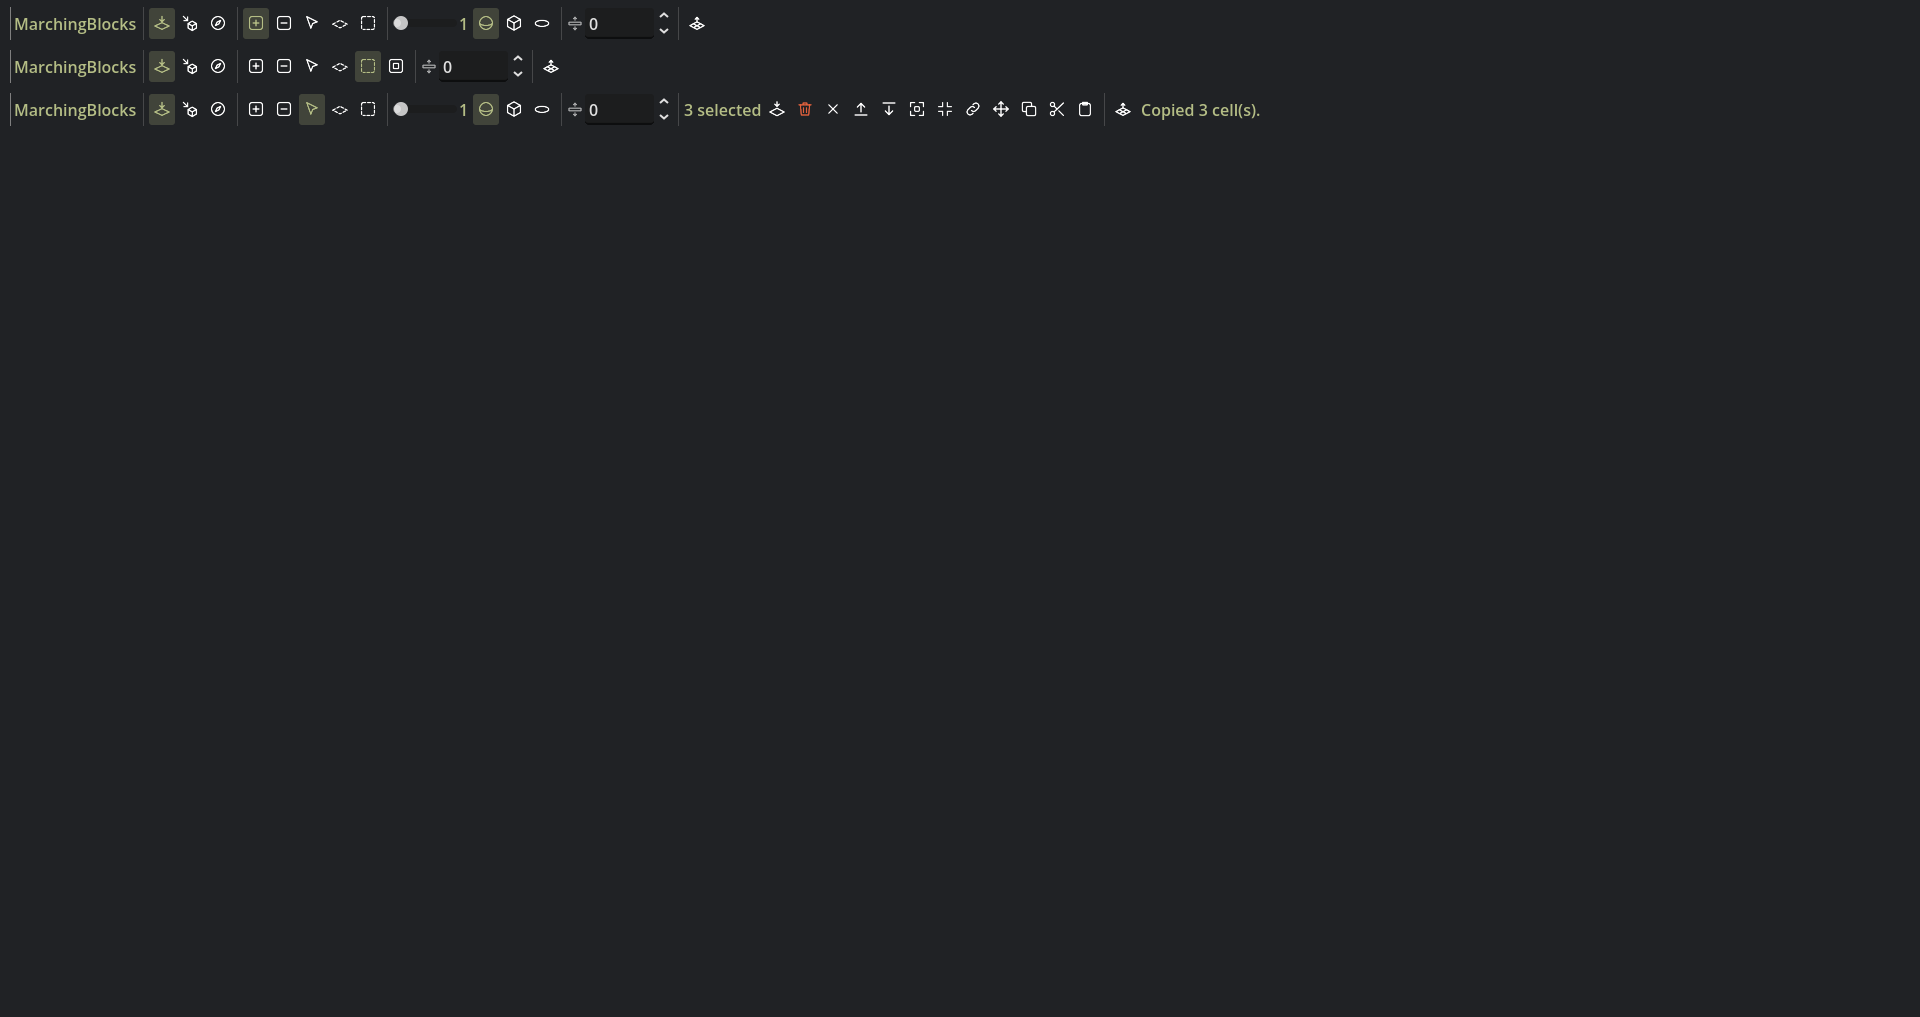
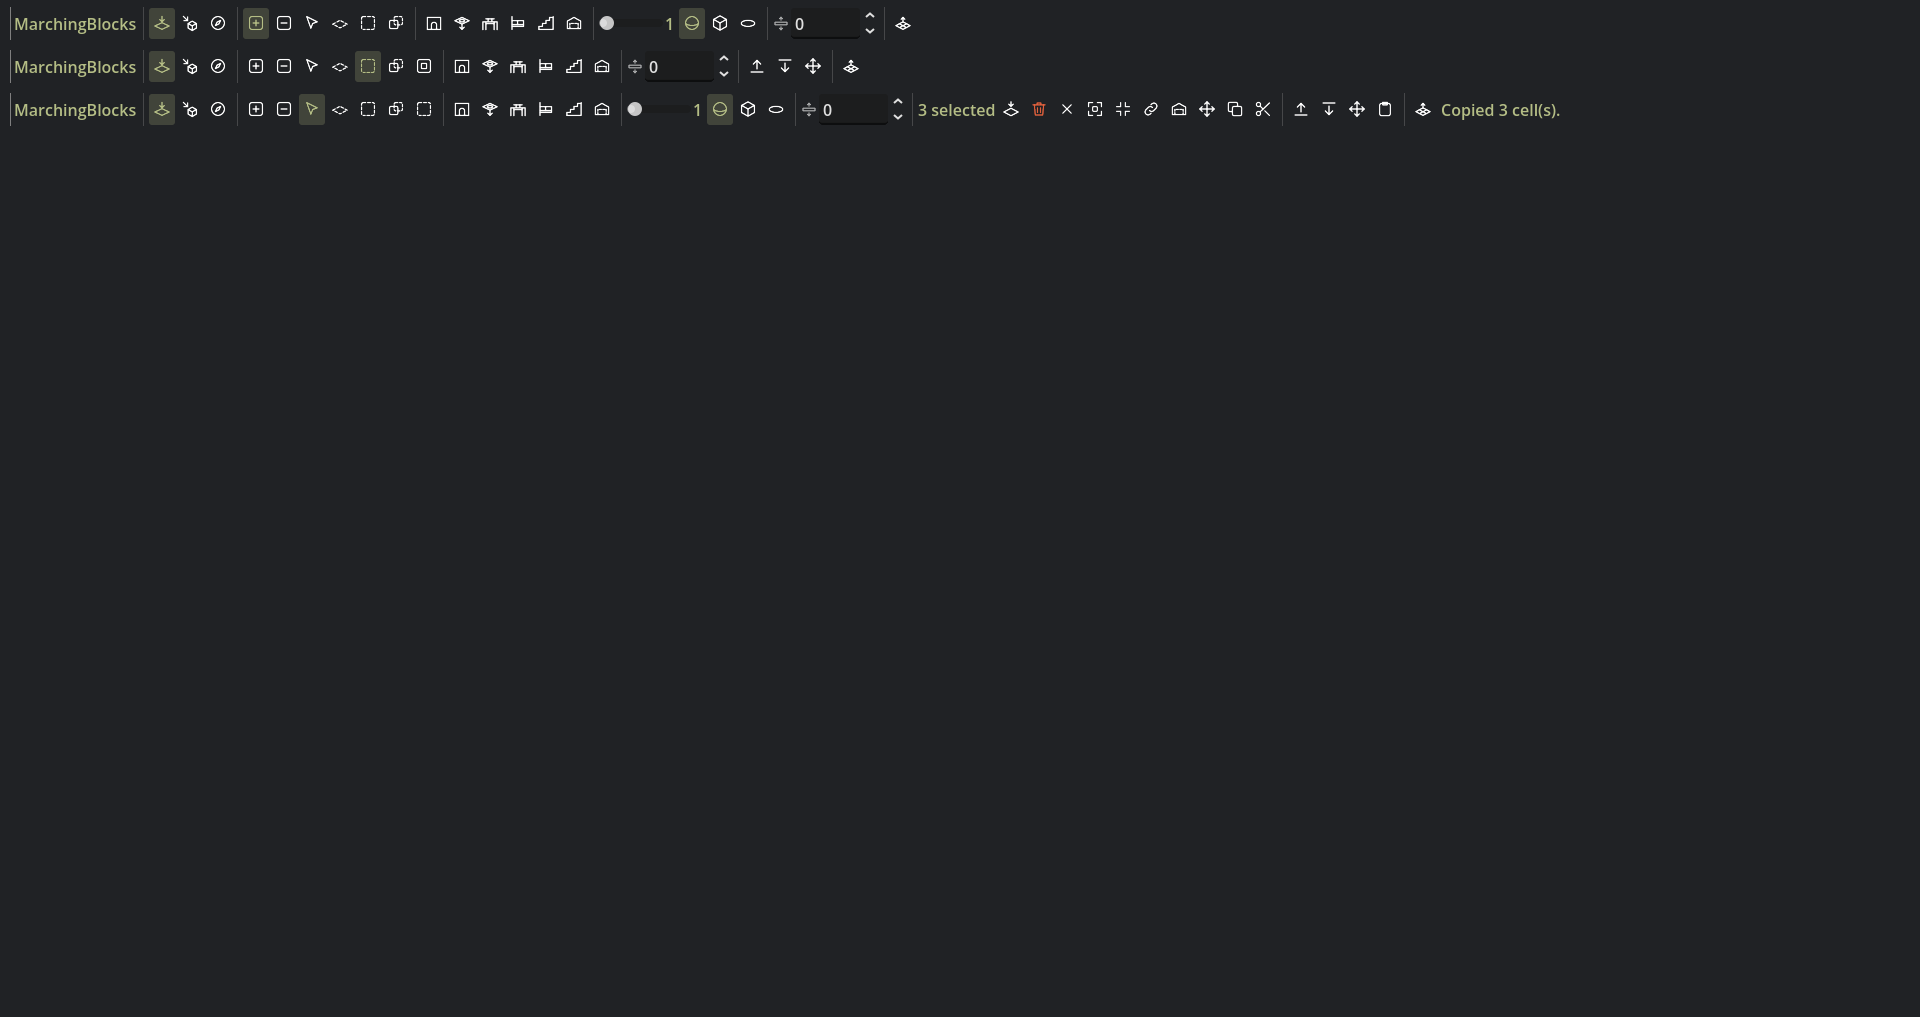
Greffon Godot à parité : la charte, le README, la barre refaite, et la mutation muette de l'eau gardée
- CLAUDE.md : sous-section « Le greffon Godot à parité » (282 cas sur 282, 24 mutations rouges, vu à l'image,
  ce qui reste et pourquoi) ; la liste des greffons cochée pour Godot ;
- ⚠ OUVERT, à trancher dans le cœur : phase_de arrondit en 32 bits (Vector3) alors que rules_text dit « double » —
  un greffon C# ou C++ écrit depuis le texte échoue les cas phase ;
- la mutation « l'eau lue au point même » ne rougissait aucun cas commun : gardée ici contre la référence ;
- README du greffon (anglais) : Extrude, Shrink, Room from selection, la molette, ce qu'un monde importé apporte ;
- les 26 suites headless vertes.

diff --git a/CLAUDE.md b/CLAUDE.md
@@ -52,31 +52,38 @@ Un PROPOSÉ ne devient DÉCIDÉ qu'une fois validé — à l'image de préféren
     Et **les cascades en volume** (§5, « les cascades du 3 octobre ») : la nappe courbe refermée dans la roche, son
     remous, la source — le contrat change (genre 0,75 = écume ; COLOR_0 a = l'écume sur une cascade), et le motif
     `motif_cascade` est à réécrire dans chaque preset.
+    - ✓ **Godot — PARTIEL (7 octobre 2026)** : lecture de `water`, la nappe cuite et les SIX presets (copie générée), le matériau de l'artiste, la règle des cases (25/25 cas) ; la nappe se dit périmée quand on peint. ⚠ La NAPPE n'est pas recalculée (le mailleur n'a pas de cas). Voir « Le greffon Godot à parité ».
   - **La molette du contexte** (§5, « la molette ») : la même règle dans les trois éditeurs (pendant un geste, Alt, Maj,
     Ctrl), F qui cadre toute la matière, et des panneaux où la molette ne règle rien.
+    - ✓ **Godot — FAIT sauf F (7 octobre 2026)** : la règle de l'appli dans `mb_editor.gd` (`wheel`), éprouvée par de vrais événements. ⚠ F : la caméra de la vue 3D appartient à l'éditeur de Godot (pas d'API pour la poser).
   - ~~**la salle**~~ — **FAITE (2 octobre 2026)**, voir §4, « la salle dans les greffons ».
   - ~~**la règle multicouche**~~ — **FAITE (2 octobre 2026)**, voir §4, « la règle multicouche dans les greffons ».
   - **Les transitions entre couches** (§5, « L'atelier Transitions ») : lire la clé `transitions` d'un monde exporté (à
     écrire d'abord dans `world.json` : paires, réglages par direction, représentants, choix peints), réécrire la règle
     (`Transitions.melange`, ses cas d'épreuve) et le shader (texture 3D d'un octet par case, table des réglages) dans
     chaque moteur, et le poser par-dessus les matériaux des tuiles. Un shader ne voyage pas (§4).
+    - ✓ **Godot — FAIT (7 octobre 2026)** : lecture, règle (93/93 cas), le shader de l'appli en `next_pass` sur les matériaux des tuiles, qui suit les cases peintes. Vu à l'image.
   - **Les demandes du 3 octobre 2026** (§5, « les demandes du 3 octobre ») : le pinceau Select qui prend aussi les
     cases VIDES (une case à cocher), « Extend selection ↑ ↓ » (le mode « étendre » d'`Etages.extruder`, en bouton), et,
     si les greffons posent un jour de l'eau, la largeur d'une rivière à la pose (`FL.sources_en_largeur`, ses cas) ; et
     « Room from selection » (`FS.salle_depuis`, réécrite en C# et en C++, avec ses cas).
+    - ✓ **Godot — FAIT (7 octobre 2026)** : « Select empty cells too », Extend selection (Maj + clic / Maj + molette), Room from selection. La largeur d'une rivière : la règle et ses cas seulement (le greffon ne pose pas d'eau).
   - **Extrude, et Shrink** (§5, « Extrude, une seule fois ») : les trois greffons ont encore Extrude ↑ ↓ dans les
     opérations de sélection et l'ancien Shrink (`retrecir`, gardé dans `outils.gd` pour leurs cas d'épreuve). Il
     faut : `Etages.extruder` (poser / étendre / décaler, haut / bas / face) réécrite en C# et en C++, `retrecir_bord`
     à la place de `retrecir`, leurs cas dans `tools_conformance.json`, et Maj / Alt dans les trois éditeurs.
+    - ✓ **Godot — FAIT (7 octobre 2026)** : Extrude ↑ ↓ face (Maj étend, Alt décale), Shrink du bord ; les anciens Extrude ↑ ↓ et Shrink quittent sa barre (leurs fonctions restent pour `tools_conformance.json`).
   - ~~**Les variantes voulues**~~ — **FAITES (5 octobre 2026)**, voir §3, « les variantes dans les greffons ».
   - **Les textures animées** (§5, « l'atelier Animation ») : lire `mb_animation` dans les `extras` du matériau glTF
     (défilement u/v, images — ips, aller-retour —, pulsation de l'émission, synchro ou décalée par la position, la phase
     de `phase_de`), et le shader de chaque moteur (la règle : `image_au_temps`, `pulsation_au_temps`) ; EMPORTER LES
     IMAGES dans le `.mbset` (aujourd'hui `tiles.glb` ne porte que l'image 0 et les noms de fichiers des autres) ; leurs
     cas d'épreuve.
+    - ✓ **Godot — FAIT (7 octobre 2026)** : `mb_animation` lu dans le JSON du `.glb` (repli : la méta `extras`), le shader de l'appli (copie générée, phase en espace du format), 43/43 cas. Vu à l'image.
   - **Le feuillage** (§5, « l'atelier Foliage ») : porter les modèles et les plants dans le `.mbworld` (le `.glb` copié
     dedans, comme les jeux de tuiles), la règle `feuillage.gd` (les trois modes, le pinceau, ses cas d'épreuve), le
     vent (le shader réécrit dans chaque moteur, sur les mêmes données : sol, hauteur, phase, amplitude par plant).
+    - ✓ **Godot — PARTIEL (7 octobre 2026)** : lecture, pose en MultiMesh, le vent (shader de l'appli), la règle de placement et du pinceau (59/59 cas). ⚠ Pas d'outil pour PLANTER dans l'éditeur de Godot. Vu à l'image.
   - **UNE API DE JEU — PROPOSÉ (4 octobre 2026), validée comme entrée de la liste par Jordan le même jour** (« pour
     que les game dev puissent simplement faire leur jeu par-dessus »). Les trois greffons sont des OUTILS D'ÉDITEUR :
     leur surface publique n'a jamais été conçue comme une API (Godot `cells` / `apply_cells` / `cell_under_ray` /
@@ -509,6 +516,64 @@ lire, la règle, les cas, le rendu, ce qui ne peut pas être fait). Ici, ce qui 
   ambiguë se remonte et se corrige dans le GDScript, jamais dans un moteur.
 - ⚠ **PAS TENU EN MAIN** : l'export du monde par le bouton (le panneau d'attente pend en headless, comme avant) — mené
   par `test_parite` sur `FormatMonde.exporter` directement, avec ce que l'écran lui passe (`_exporter_le_monde`, relu).
+
+### LE GREFFON GODOT À PARITÉ — FAIT LE 7 OCTOBRE 2026 (branche `greffon-godot`, sur le contrat ci-dessus)
+
+Le greffon gratuit (`addons/marchingblocks_paint/`) porte la liste des greffons, entrée par entrée (cochées dans la
+liste, §0). **Il ne charge toujours RIEN du cœur** : chaque règle y est réécrite depuis `rules_text` (en anglais, elle
+part chez l'acheteur), et les cinq fichiers de cas communs la jugent.
+
+- **LES RÈGLES — MESURÉ : 282 CAS SUR 282** (`test_greffon_peinture`, qui lit les cinq fichiers ; une sorte inconnue
+  rougit, le nombre de cas de chaque fichier est vérifié) : `mb_tools.gd` (Extrude poser / étendre / décaler × haut /
+  bas / face, `shrink_edge`, `widen_flat`, `select_brush`), `mb_shapes.gd` (`room_from_selection`), `mb_animation.gd`,
+  `mb_transitions.gd`, `mb_foliage.gd`, `mb_water.gd` (la règle de `fluides.gd`, sans le natif ni la reprise).
+- **LES SHADERS SONT CEUX DE L'APPLI, COPIÉS PAR UN GÉNÉRATEUR** (`DEV_TOOLS/generer_shaders_greffon.gd` →
+  `mb_shaders.gd`, gardé par la péremption dans `test_greffon_peinture`, comme les icônes) : l'animation, les
+  transitions, le vent, les six presets d'eau. **Deux transformations seulement**, chacune refusée si son motif manque :
+  chaque `MODEL_MATRIX` passe par `mb_world_to_format` (l'animation et les transitions : un nœud du greffon peut être
+  déplacé, tourné, à case ≠ 1 — l'appli, elle, est en espace du format) ; l'horloge de l'appli (`mb_temps`, `mb_image`)
+  devient le `TIME` de Godot (le greffon ne peint pas d'images). Le vent et l'eau partent tels quels.
+- **L'IMPORT D'UN MONDE** (`mb_world_file.gd`, `read_all`) lit `water`, `transitions`, `foliage` (une clé malformée refuse
+  le monde) et pose à côté des couches : **MarchingBlocksWater** (la nappe cuite, le preset de son aspect ou le matériau
+  de l'artiste ; elle se dit PÉRIMÉE quand les cases changent, et `follow_cells` montre l'eau recalculée — éteint par
+  défaut : une mer de millions de cases en GDScript), **MarchingBlocksTransitions** (le passage en `next_pass` sur
+  TOUS les matériaux des tuiles des couches, qui suit les cases peintes dans l'éditeur), **MarchingBlocksFoliage**
+  (MultiMesh, le vent ; le sol et la hauteur passés dans le monde de Godot). Un jeu de tuiles animé : `mb_animation` lu
+  dans le JSON du `.glb` (repli : la méta `extras`), ses images dans `animation/`. Les maillages d'une couche qui change
+  un matériau deviennent les SIENS (`Tileset.own`) : un autre monde qui charge le même `.glb` n'est pas touché.
+- **L'ÉDITION** : la barre a Extrude ↑ ↓ face (clic pose, Maj étend, Alt décale ; sur la sélection ou la matière de
+  l'étage), Shrink du bord, « Select empty cells too », Room from selection ; les anciens Extrude ↑ ↓ et Shrink QUITTENT
+  la barre de Godot (leurs fonctions restent pour `tools_conformance.json`, PARITE §6). **La molette** suit la règle de
+  l'appli (`mb_editor.wheel`), sa valeur dite près de la souris. Éprouvé par de vrais événements (350 vérifications).
+- **VU À L'IMAGE** (un projet d'essai avec le greffon seul, un monde exporté par l'appli, rendu avec fenêtre) : le fondu
+  sable / roche (avec et sans passage, puis un représentant rouge pour voir OÙ il dessine), l'animation décalée tuile par
+  tuile à deux instants, les arbres qui se balancent à trois instants, les SIX presets d'eau, et la barre
+  (`ART/barre_greffon.png`, refaite).
+- **MUTATIONS — 24, 24 ROUGES** : le fondu (départage, décalage sans 1 − s), la table au-delà de 15, la marge de la
+  texture, l'aller-retour, la phase, une version plus récente, le défilement sans 7 × phase, le balancement ∝ h, un plant
+  d'un modèle inconnu, le pinceau qui n'indexe pas, l'ordre des voisins de l'eau, deux mers, le lac qui ne déborde
+  jamais, Extrude face, Shrink, Select, Room from selection, la molette (Alt ↑ inversé, le zoom volé), la copie des
+  shaders retouchée, le passage non posé, la nappe sans son preset. ⚠ **UNE ÉTAIT D'ABORD MUETTE** : lire l'eau sous un
+  plant au point même au lieu de p + 0,1 ne change AUCUN cas `check` (leurs plants sont à y = 1). Gardée dans
+  `test_greffon_peinture` contre la référence du cœur (un sol à y = 0,75) — **les cas communs ne la gardent pas : à
+  ajouter dans `epreuve_parite.gd`** (OUVERT : régénérer touche les trois greffons).
+- ⚠ **UNE AMBIGUÏTÉ DE LA RÈGLE, TROUVÉE — OUVERT, À TRANCHER DANS LE CŒUR** : `phase_de` range `fract(p · 0,3183099 + k)`
+  puis `× 17` dans un `Vector3` — en FLOTTANTS 32 BITS — alors que `rules_text` dit « computed in DOUBLE precision ».
+  Mesuré : en double pur, l'origine (130, 64, −90) donne 0,32110 au lieu de 0,32080 attendu (et (1, 1, 1) 0,99927 au lieu
+  de 0,99919) : **un greffon C# ou C++ écrit depuis le texte ÉCHOUE les cas `phase`**. Godot les passe parce que son
+  `Vector3` arrondit pareil. Deux voies : dire l'arrondi 32 bits dans le texte, ou calculer `phase_de` en double (les
+  cas changent). Aucune ne change le rendu de l'appli (son shader calcule à part).
+- ⚠ **CE QUI RESTE, ET POURQUOI** : F (cadrer toute la matière) — la caméra de la vue 3D appartient à l'éditeur de Godot,
+  sans API pour la poser (son F à lui centre la sélection) ; PLANTER dans l'éditeur — pas d'outil (la règle et le pinceau
+  sont là et éprouvés ; le sol devrait se chercher contre les tuiles posées) ; la NAPPE d'eau recalculée — attend les cas
+  du mailleur (PARITE §2) ; le bruit des transitions — un par direction dans le shader, un seul dans les cas (PARITE §4,
+  le greffon suit le shader) ; le vent d'un monde TOURNÉ tourne avec lui (exact pour un monde déplacé et mis à
+  l'échelle).
+- ⚠ **VU EN PASSANT** : l'export glTF de l'appli donne un matériau PAR MAILLAGE (« sand », « sand2 »… « sand52 »), chacun
+  avec ses extras — l'association par nom marche, mais un moteur reçoit 52 matériaux pour un (le greffon partage
+  au moins leurs tableaux d'images). À regarder pour Unity et Unreal (lots d'appels de dessin).
+- ⚠ **PAS TENU EN MAIN** : le greffon dans l'éditeur de Godot lui-même (souris, molette réelle sous Windows, Alt +
+  molette) — tout ce qu'il relaie est éprouvé par événements, l'aiguillage de l'éditeur ne se teste pas en headless.
 
 ## 1. Le greffon en une phrase — DÉCIDÉ
 

diff --git a/addons/marchingblocks_paint/README.md b/addons/marchingblocks_paint/README.md
@@ -20,6 +20,24 @@ in one layer removes it from the others, in the same Ctrl+Z. A hidden layer leav
 without tiles arrives with its cells and no tiles, and the Output panel says so. `world_conformance.json`
 holds the reading rule's reference cases.
 
+What else a world exported by MarchingBlocks brings comes with it, next to the layers:
+
+- **Animated textures** — a material of a tileset whose glTF extras carry `mb_animation` (scroll, frames,
+  pulse, on the base colour, normal, ORM and emission) is drawn by the MarchingBlocks tool's own shader; its
+  frames travel in `<tileset>.mbset/animation/`. A de-synced track starts each tile at its own phase.
+- **Transitions** (a *MarchingBlocksTransitions* node) — where two layers meet, the surface of one takes the
+  look of the other, softly: a pass laid over the tiles' materials. It follows the cells as you paint (in a
+  game, call `refresh()` after changing cells).
+- **Foliage** (a *MarchingBlocksFoliage* node) — every plant, drawn as MultiMeshes, swaying in the wind. The
+  models' own animations (skeletons) are not played.
+- **Water** (a *MarchingBlocksWater* node per water layer) — the water sheet MarchingBlocks baked, drawn with
+  one of six example looks (stylized, clear, reflective, lava, swamp, acid) — **or your own material**: the looks
+  are examples, not an obligation. Any water shader gets the data: COLOR_0 r, g the flow along x and z ([-1, 1]
+  mapped to [0, 1]); b the kind (0 still, 0.5 river, 0.75 foam, 1 waterfall); a the depth / 8 on still water and
+  rivers, the amount of foam on waterfalls and foam; NORMAL the shape; TEXCOORD_0. Paint the cells and the sheet
+  says it is stale; *Follow Cells* shows the water of the new cells (the rule of the tool, `mb_water.gd`).
+  Re-export the world from MarchingBlocks to rebake the sheet.
+
 | Aim (Tab switches) | |
 |---|---|
 | Grid | aims at the floor plane — Page Up / Page Down move it |
@@ -35,10 +53,39 @@ holds the reading rule's reference cases.
 | Arrows | move the selection; they follow the camera. Shift + ↑ ↓ lift and lower |
 | Ctrl + C · X · V | copy · cut · paste (then click to place) |
 
-The **Selection** menu holds Fill, Delete, Extrude ↑ ↓, Grow, Shrink, Connected, Copy, Cut, Paste.
-Extruding moves the floor with the selection, so *Rect, Fill, Extrude, Fill…* raises a room.
+Once something is selected, the toolbar holds Fill, Delete, Clear, Grow, **Shrink** (drops the EDGE of the
+selection: a rectangle loses its rim), Connected, **Room from selection**, Move, Copy, Cut, Paste.
+
+**Extrude** ↑ · ↓ · **facing** (with Select, Rect, Box, or a selection) acts on the selection — or, with nothing
+selected, on the matter of the floor:
+
+| | |
+|---|---|
+| Click | adds matter one cell that way; the selection and the floor follow — click again to keep going |
+| Shift + click | **Extend selection**: the selection grows one cell that way, empty cells included — no matter added |
+| Alt + click | moves the selection one cell that way — no matter added |
+
+*Facing* goes away from the matter behind the cells: a wall thickens toward the air, a cave ceiling comes down.
+So *Rect, Fill, Extrude, Fill…* raises a wall, and *Select empty cells too* (a toggle under Select) paints a
+room's footprint on the floor grid — then **Room from selection** turns it into a room (Floors and Up / Down
+are the Room shape's), or Extend selection ↑ and Fill.
+
+| Mouse wheel | |
+|---|---|
+| alone | the editor's zoom — except during a gesture: a Rect / Box drag (its height: a flat Rect becomes a box), a Room being traced (its floors), a paste (its height) |
+| Ctrl | the floor |
+| Ctrl + Shift | the Stairs' step |
+| with a selection (Select, Rect, Box) | Shift: Extend selection ↑ ↓ · Alt ↑: widen it, a flat ring · Alt ↓: shrink its edge |
+| a shape | Alt: its size (a Room: its floors) · Shift: its length (a Room: rises / sinks) |
+| Add · Dig · Select | Alt: the brush size · Shift: the next brush shape |
+
+Each notch says its value near the mouse. Navigate never takes the wheel, and the inspector's own fields keep
+theirs. (Godot's F keeps framing the selected node: the 3D view's camera belongs to the editor.)
 
 A red cube is a tile your tileset does not have. Nothing is ever filled in for you. One node is one
 layer. The placement rule is written in `tileset.json` (`rules_text`), the tools in
 `tools_conformance.json` (`rules_text`); `conformance.json` and `tools_conformance.json` prove this plugin
-follows both exactly — the same reference cases as the Unity and Unreal plugins.
+follows both exactly — the same reference cases as the Unity and Unreal plugins. So do
+`editing_conformance.json` (Extrude, Shrink, Widen, the Select brush, Room from selection, the mouse wheel),
+`animation_conformance.json`, `transitions_conformance.json`, `foliage_conformance.json` and
+`water_conformance.json`: each holds its rule in full (`rules_text`) and the cases every plugin passes.
